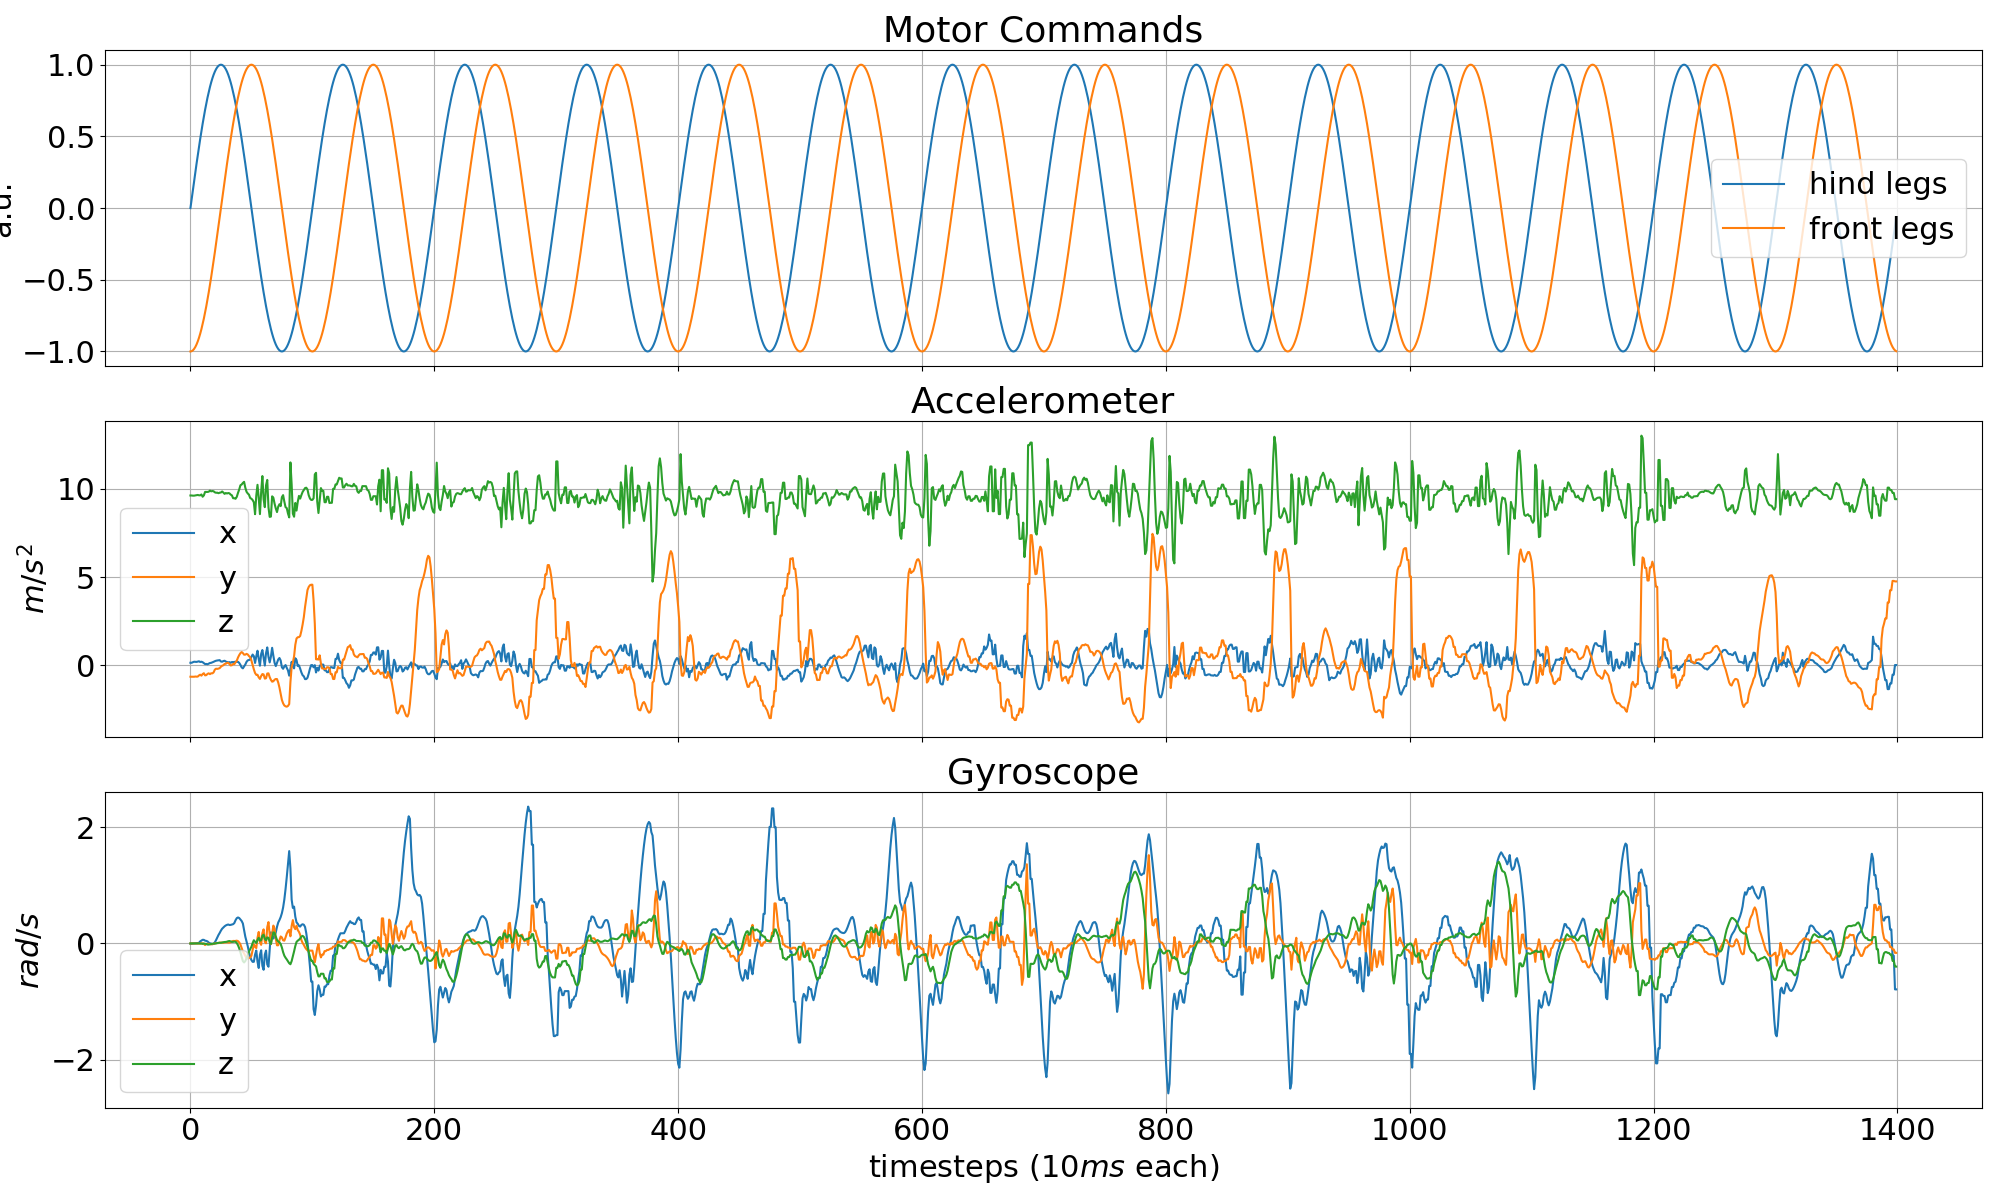
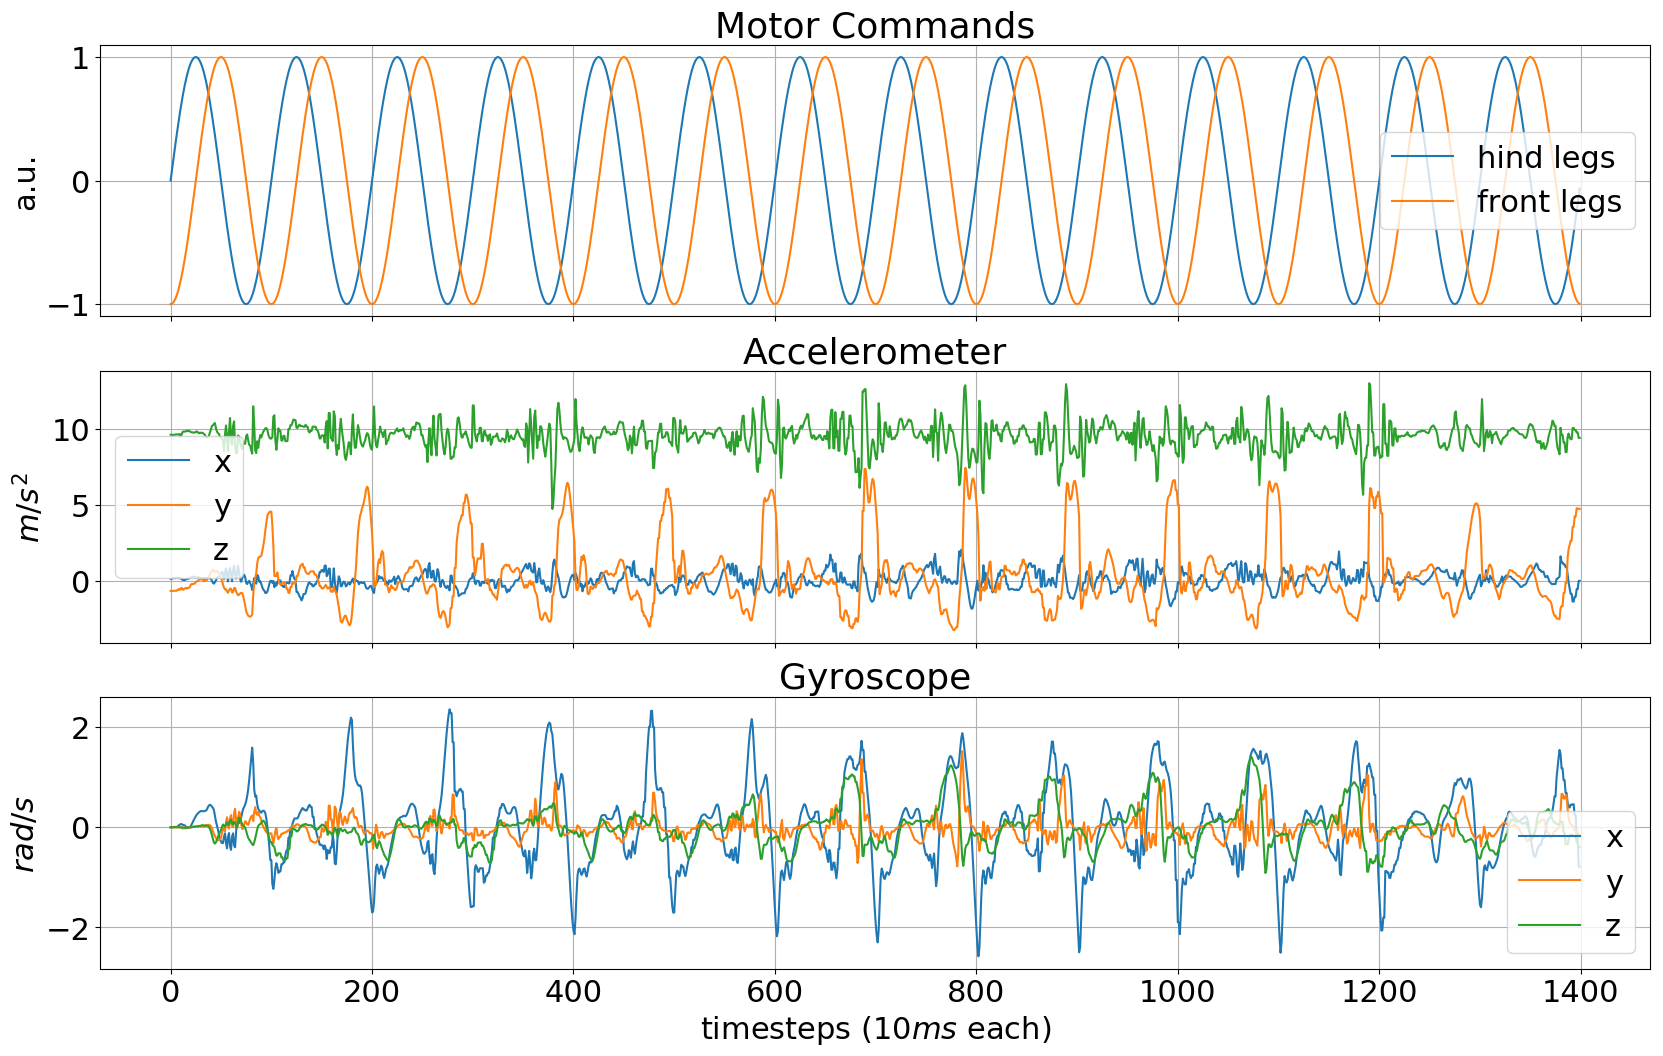
Modified images and analyzing script

diff --git a/pickle_scripts/analyze_pickle.py b/pickle_scripts/analyze_pickle.py
@@ -10,6 +10,8 @@ import matplotlib as mpl
 import matplotlib.pyplot as plt
 from matplotlib import cm
 from matplotlib.ticker import FuncFormatter
+import matplotlib.gridspec as gridspec
+from matplotlib.colors import Normalize
 
 from sklearn import datasets, linear_model
 from sklearn import kernel_ridge
@@ -288,7 +290,7 @@ class Analyzer():
 
 
         for motor in range(self.nummot):
-            if args.synchronous_front_back and motor % 2 == 0:
+            if not args.synchronous_front_back or motor % 2 == 0:
                 axarr[0].plot(self.motor_commands[:, motor])
         axarr[0].set_ylim([-1.1, 1.1])
         axarr[0].set_title("Motor Commands")
@@ -297,6 +299,9 @@ class Analyzer():
 
         if args.synchronous_front_back:
             axarr[0].legend(["hind legs", "front legs"])
+        else:
+            labels=["right hind", "left hind", "right front", "left front"]
+            axarr[0].legend(labels)
 
         sensor_index = 0
         for sensor in range(len(self.use_sensors)):
@@ -323,9 +328,9 @@ class Analyzer():
         axarr[sensor + 1].set_xlabel("timesteps ($10ms$ each)")
 
 
-        f.tight_layout()
+        #f.tight_layout()
 
-        self._save_image(f, 'img/time_series_motor_sensors.png')
+        self._save_image(f, 'img/time_series_motor_sensors.png', tight=True)
         plt.show()
 
 
@@ -362,7 +367,7 @@ class Analyzer():
             # from https://matplotlib.org/examples/pylab_examples/histogram_percent_demo.html
             # Ignore the passed in position. This has the effect of scaling the default
             # tick locations.
-            s = str(np.floor(1000 * y / 6000.) / 10.)
+            s = str(np.floor(1000 * y / self.numtimesteps) / 10.)
 
             # The percent symbol needs escaping in latex
             if mpl.rcParams['text.usetex'] is True:
@@ -378,7 +383,7 @@ class Analyzer():
         plt.gca().yaxis.set_major_formatter(formatter)
 
         plt.ylabel("fraction of motor commands")
-        plt.xlabel("set position")
+        plt.xlabel("Motor Commands")
         plt.legend(loc='upper center', bbox_to_anchor=(0.5, 1.00), ncol=2, fancybox=True, shadow=True, prop={'size':18})
         self._save_image(f, 'img/hist.png')
         plt.show()
@@ -398,7 +403,9 @@ class Analyzer():
         parser.add_argument('-pMse', '--plotMse', default = False, action='store_true')
         parser.add_argument('-pVar', '--plotVar', default = False, action='store_true')
         parser.add_argument('-pMseNorm', '--plotMseNorm', default = False, action='store_true')
-        # TODO Make the bool args setable without writing the 1
+        parser.add_argument('-yLim','--y_ticks_limit', default = 2, type=int, help='upper and lower limits of the sensor plots')
+        parser.add_argument('-yStep', '--y_ticks_step', default = 1, type=int, help='stepsize in y ticks for the sensor plots')
+        parser.add_argument('-xStep', '--x_ticks_step', default = 500, type=int, help='stepsize in x ticks for all plots')
 
         args, unknown_args = parser.parse_known_args()
 
@@ -451,6 +458,7 @@ class Analyzer():
                 axarr[cnt_subplot].set_ylim([-1.1, 1.1])
                 axarr[cnt_subplot].legend()
             axarr[cnt_subplot].set_title("Motor Commands")
+            axarr[cnt_subplot].set_ylabel("a.u")
 
             # increment the subplot counter
             cnt_subplot+=1
@@ -482,15 +490,15 @@ class Analyzer():
                         selected_ax.plot(motor_pred, label="motor_prediction")
                         selected_ax.plot(bias_pred , label="bias")
 
-                    #title = self.sensor_name_long[sensor_name] + " " + self.sensor_name_extensions[sensor_name][dim]
+                    title = self.sensor_name_long[sensor_name] + " " + self.sensor_name_extensions[sensor_name][dim]
 
-                    #if i == 0:
-                    #    selected_ax.legend(loc='upper center', bbox_to_anchor=(0.5, 1.00), ncol=2, fancybox=True, shadow=True, prop={'size':18})
-                    #selected_ax.set_title(title)
-                    #selected_ax.set_ylim([-2, 2])
-                    #selected_ax.set_yticks(np.arange(-2, 2.5, 1))
-                    #selected_ax.set_ylabel("$[rad/sec]$")
-                    #selected_ax.grid(linestyle='--', linewidth=1, alpha = 0.2)
+                    if i == 0:
+                        selected_ax.legend(loc='upper center', bbox_to_anchor=(0.5, 1.00), ncol=2, fancybox=True, shadow=True, prop={'size':18})
+                    selected_ax.set_title(title)
+                    selected_ax.set_ylim([-1 * args.y_ticks_limit, args.y_ticks_limit])
+                    selected_ax.set_yticks(np.arange(-1 * args.y_ticks_limit, 1 * args.y_ticks_limit + 0.1, args.y_ticks_step))
+                    selected_ax.set_ylabel("$[rad/sec]$")
+                    selected_ax.grid(linestyle='--', linewidth=1, alpha = 0.2)
 
                     i+=1
 
@@ -513,6 +521,7 @@ class Analyzer():
             axarr[cnt_subplot].legend(["x", "y", "z", "average"], loc='upper center', bbox_to_anchor=(0.5, 1.00), ncol=4, fancybox=True, shadow=True, prop={'size': 18})
             axarr[cnt_subplot].set_ylim([0,0.15])
             axarr[cnt_subplot].set_yticks(np.arange(0,0.16, 0.05))
+            axarr[cnt_subplot].set_ylabel('a.u')
             cnt_subplot += 1
 
         if args.plotVar:
@@ -523,6 +532,7 @@ class Analyzer():
             axarr[cnt_subplot].set_yticks(np.arange(0,0.61, 0.2))
             axarr[cnt_subplot].grid(linestyle='--', linewidth=1, alpha = 0.2)
             axarr[cnt_subplot].legend()
+            axarr[cnt_subplot].set_ylabel('a.u')
             cnt_subplot += 1
 
         if args.plotMseNorm:
@@ -537,13 +547,24 @@ class Analyzer():
             axarr[cnt_subplot].set_title("Normalized squared prediction error through sliding window $e_{norm}$")
             #axarr[cnt_subplot].legend(["x", "y", "z", "average"], loc='upper center', bbox_to_anchor=(0.5, 1.05), ncol=4, fancybox=True, shadow=True)
             axarr[cnt_subplot].set_yticks(np.arange(0,1.6, 0.5))
-            plt.annotate('local minimum', xy=(2150, 0.6), xytext=(2150, 1.2), arrowprops=dict(facecolor='black', shrink=0.05), fontsize=18)
-            plt.annotate('episode minimum', xy=(5520, 0.40), xytext=(5160, 1.0), arrowprops=dict(facecolor='black', shrink=0.05), fontsize=18)
+            axarr[cnt_subplot].set_ylabel('a.u')
+
+            print self.filename
+
+            # plot arrows of the minima in the episodes
+            if self.filename == "pickles/homeokinesis/experiment_extended_model_1.pickle":
+                plt.annotate('local minimum', xy=(2150, 0.6), xytext=(2150, 1.2), arrowprops=dict(facecolor='black', shrink=0.05), fontsize=18)
+                plt.annotate('episode minimum', xy=(5520, 0.40), xytext=(5160, 1.0), arrowprops=dict(facecolor='black', shrink=0.05), fontsize=18)
+            elif self.filename == "pickles/homeokinesis_gyr_velocity/experiment_1.pickle":
+                plt.annotate('local minimum', xy=(18800, 0.3), xytext=(18800, 1.2), arrowprops=dict(facecolor='black', shrink=0.05), fontsize=18)
+                plt.annotate('episode minimum', xy=(28400, 0.20), xytext=(26000, 1.1), arrowprops=dict(facecolor='black', shrink=0.05), fontsize=18)
+
             cnt_subplot += 1
 
         plt.xlim([args.xlim_start, args.xlim_end])
-        plt.xticks(np.arange(args.xlim_start, args.xlim_end + 1, 500))
-        plt.xlabel("timesteps")
+
+        plt.xticks(np.arange(args.xlim_start, args.xlim_end + 1, args.x_ticks_step))
+        plt.xlabel("timesteps (10ms each)")
 
         plt.legend()
         f.tight_layout()
@@ -557,8 +578,11 @@ class Analyzer():
 
     def time_series_motor_estimate(self):
         max_turning_speed_deg = 60 * 0.01 / 0.17
-        max_turning_speed_our_scale = max_turning_speed_deg * 2. / 180.
+        max_turning_speed_our_scale = max_turning_speed_deg * 2. / 140.
+        max_turning_speed_filter = 0.4
         motor_estimate = np.zeros_like(self.motor_commands)
+
+        turning_speed = np.zeros_like(self.nummot)
 
         print max_turning_speed_our_scale
         for i in range(self.numtimesteps):
@@ -572,7 +596,9 @@ class Analyzer():
                     if np.abs(delta[j]) > max_turning_speed_our_scale:
                         delta[j] = np.sign(delta[j]) * max_turning_speed_our_scale
 
-                motor_estimate[i] = motor_estimate[i - 1].copy() + delta
+                turning_speed = turning_speed * (1. - max_turning_speed_filter) + delta * max_turning_speed_filter
+
+                motor_estimate[i] = motor_estimate[i - 1].copy() + turning_speed
 
         f = plt.figure(figsize = (20,7))
 
@@ -620,6 +646,17 @@ class Analyzer():
         plt.show()
 
     def learn_motor_sensor_linear(self):
+        class MidpointNormalize(Normalize):
+            def __init__(self, vmin=None, vmax=None, midpoint=None, clip=False):
+                self.midpoint = midpoint
+                Normalize.__init__(self, vmin, vmax, clip)
+
+            def __call__(self, value, clip=None):
+                # I'm ignoring masked values and all kinds of edge cases to make a
+                # simple example...
+                x, y = [self.vmin, self.midpoint, self.vmax], [0, 0.5, 1]
+                return np.ma.masked_array(np.interp(value, x, y))
+
         """
         This mode learns the sensor responses from the motor commands with
         linear regression and tests the result.
@@ -635,8 +672,8 @@ class Analyzer():
         self._prepare_data_for_learning()
 
         if self.args.extended:
-            self.trainingData["motor"] = np.zeros_like(self.trainingData["motor"])
-            self.testData["motor"] = np.zeros_like(self.testData["motor"])
+            #self.trainingData["motor"] = np.zeros_like(self.trainingData["motor"])
+            #self.testData["motor"] = np.zeros_like(self.testData["motor"])
 
             self.trainingData["motor"] = np.hstack((self.trainingData["motor"][:-args.lag], self.trainingData["sensor"][args.lag:]))
             self.testData["motor"] = np.hstack((self.testData["motor"][:-args.lag], self.testData["sensor"][args.lag:]))
@@ -650,18 +687,46 @@ class Analyzer():
         predTest = regr.predict(self.testData["motor"])
 
 
-        _var = np.var(self.testData["sensor"], axis=0)
-
+        _var = np.var(self.sensor_values, axis=0)
 
         mse = np.mean((predTest - self.testData["sensor"]) ** 2, axis=0)
         mse_var = mse / _var
 
-        print self.trainingData["motor"]
+        #print np.mean(self.testData["motor"][:-args.lag], axis = 0)
+
+        #print np.mean(self.trainingData["motor"], axis = 0)
+        #print np.mean(self.testData["motor"], axis = 0)
 
         print "\tacc \t gyr\ttotal"
         print "mse:\t%.3f\t%.3f\t%.3f" % (np.mean(mse[:3]), np.mean(mse[3:]),np.mean(mse))
         print "var:\t%.3f\t%.3f\t%.3f" % (np.mean(_var[:3]), np.mean(_var[3:]), np.mean(_var))
         print "nmse:\t%.3f\t%.3f\t%.3f" % (np.mean(mse_var[:3]), np.mean(mse_var[3:]), np.mean(mse_var))
+
+        gs = gridspec.GridSpec(1,2, width_ratios=[3.2,6])
+        f = plt.figure(figsize = (20,10))
+        ax1 = plt.subplot(gs[0])
+        ax2 = plt.subplot(gs[1])
+
+        coef = regr.coef_
+
+
+        # normalize
+        #coef =  (coef.T / np.sum(np.abs(coef), axis=1)).T
+        #print np.sum(coef, axis=1)
+
+        orig_cmap = mpl.cm.seismic
+        #norm = MidpointNormalize(midpoint=0)
+
+        max_abs_coef = np.max(np.abs(coef))
+
+        ax1.imshow(coef[:,:4], vmin = -1  * max_abs_coef, vmax = max_abs_coef, cmap=orig_cmap)
+        ax1.set_title("Coefficients of matrix A")
+
+        cbar = ax2.imshow(coef[:,4:], vmin = -1 * max_abs_coef, vmax = max_abs_coef, cmap = orig_cmap)
+        ax2.set_title("Coefficients of matrix S")
+        plt.colorbar(cbar)
+
+        self._save_image(f, 'img/linear_coeffs.png', tight=True)
 
         print "coeffs"
         print "{}"
@@ -753,7 +818,10 @@ class Analyzer():
         else:
             show_sensors = args.show_dimensions
         i = 0
-        f, axarr = plt.subplots(show_sensors + 1, figsize=(20,10))
+
+        subplot_height = 3
+
+        f, axarr = plt.subplots(show_sensors, figsize=(20,subplot_height * self.numsen))
 
 
         #print self.x_pred_coefficients[:-self.lag, :, 0]
@@ -764,13 +832,14 @@ class Analyzer():
                 pred = testDataSampled[:-self.lag,i]
 
                 # normal plot
-                axarr[i + 1].plot(testDataAll[:-self.lag, i + self.nummot], label="sensor measurement")
-                axarr[i + 1].plot(testDataSampled[:-self.lag, i + self.nummot], label="prediction")
+                axarr[i].plot(testDataAll[:-self.lag, i + self.nummot], label="sensor measurements")
+                axarr[i].plot(testDataSampled[:-self.lag, i + self.nummot], label="predictions")
 
                 # title
                 title = self.sensor_names_with_dimensions[i]
 
-                axarr[i + 1].set_title(title)
+                axarr[i].set_title(title)
+                axarr[i].grid()
                 i+=1
 
                 if i >= show_sensors:
@@ -778,8 +847,9 @@ class Analyzer():
             if i >= show_sensors:
                 break
         plt.legend()
-        f.tight_layout()
-        self._save_image(f, 'img/igmm_pred.png')
+
+        plt.tight_layout()
+        self._save_image(f, 'img/igmm_pred.png', tight=True)
         plt.show()
 
     def step_sweep(self):
